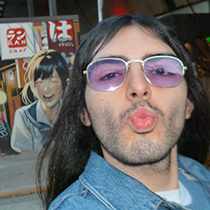
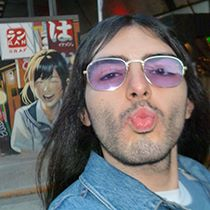
detallitos finales

diff --git a/index.html b/index.html
@@ -113,7 +113,7 @@
             <img src="img/besito.jpg" alt="besito a la cámara" width="210" height="210">
             <img src="img/cute.jpeg" alt="re cutie bajo la lluvia" width="210" height="210">
             <img src="img/cumple.jpeg" alt="mi cumple pasado, pendejita de 23 amor" width="210" height="210">
-            <img src="img/pose.JPG" alt="dandolo todo en la pista como siempre" width="210" height="210">
+            <img src="img/pose.jpg" alt="dandolo todo en la pista como siempre" width="210" height="210">
             <img src="img/gaze.jpeg" alt="sirviendo mirada de galán" width="210" height="210">
             <img src="img/slay.jpeg" alt="de casualidad encontré la ventana y el banco que combinaban conmigo"
                 width="210" height="210">
